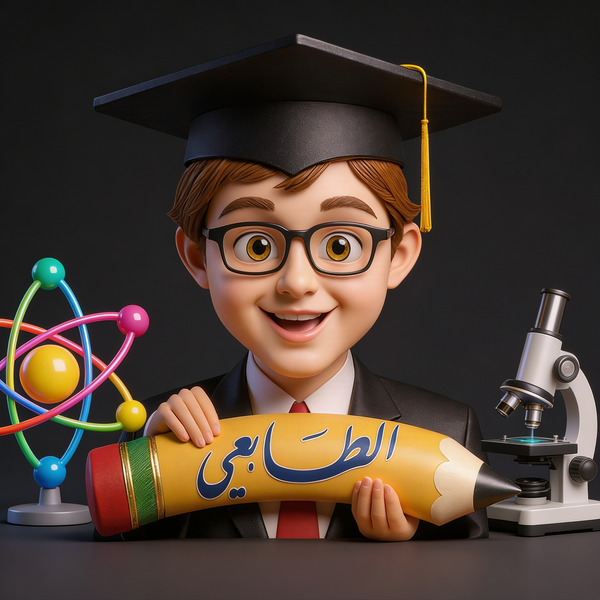
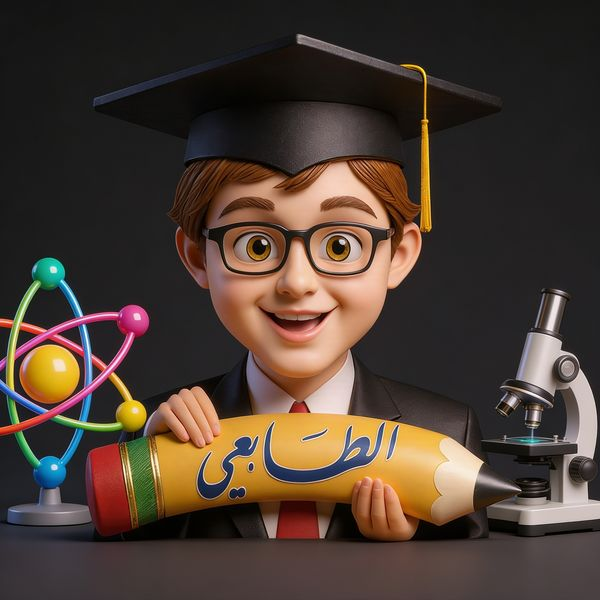
Add clear search button

diff --git a/web/index.html b/web/index.html
@@ -5,7 +5,7 @@
     <meta charset="UTF-8">
     <meta name="viewport" content="width=device-width, initial-scale=1.0">
     <meta name="google" content="notranslate">
-    <title>مكتبة القلم الذكي (الإصدار 11.7)</title>
+    <title>مكتبة القلم الذكي (الإصدار 11.8)</title>
     <link rel="stylesheet" href="style.css?v=50">
     <link rel="icon" href="icon.ico" type="image/x-icon">
     <script type="text/javascript" src="/eel.js"></script>
@@ -77,6 +77,10 @@
                         <line x1="21" y1="21" x2="16.65" y2="16.65"></line>
                     </svg>
                     <input type="text" placeholder="ابحث عن مادة..." id="search-input" onkeyup="handleSearch()">
+                    <svg id="clear-search-btn" onclick="clearSearch()" width="16" height="16" viewBox="0 0 24 24" fill="none" stroke="currentColor" stroke-width="2" stroke-linecap="round" stroke-linejoin="round" style="color: var(--text-subdued); cursor: pointer; display: none; opacity: 0.6; transition: opacity 0.2s;">
+                        <line x1="18" y1="6" x2="6" y2="18"></line>
+                        <line x1="6" y1="6" x2="18" y2="18"></line>
+                    </svg>
                 </div>
 
                 <div style="display: flex; align-items: center; gap: 8px;">

diff --git a/source_backups/app_original.js b/source_backups/app_original.js
@@ -96,6 +96,14 @@ document.addEventListener('click', function(event) {
 });
 
 // ===== Search =====
+function clearSearch() {
+    const searchInput = document.getElementById('search-input');
+    if (searchInput) {
+        searchInput.value = '';
+        handleSearch();
+    }
+}
+
 function normalizeArabic(text) {
     if(!text) return "";
     return text.replace(/[أإآا]/g, 'ا')
@@ -106,8 +114,14 @@ function normalizeArabic(text) {
 }
 
 function handleSearch() {
-    const rawQuery = document.getElementById('search-input').value.toLowerCase();
+    const searchInput = document.getElementById('search-input');
+    const clearBtn = document.getElementById('clear-search-btn');
+    const rawQuery = searchInput.value.toLowerCase();
     const query = normalizeArabic(rawQuery);
+
+    if (clearBtn) {
+        clearBtn.style.display = rawQuery ? 'block' : 'none';
+    }
 
     // إصلاح: إذا كان البحث فارغاً، عُد للعرض السابق بدلاً من شاشة فارغة
     if (query === '') {

diff --git a/web/app.js b/web/app.js
@@ -96,6 +96,14 @@ document.addEventListener('click', function(event) {
 });
 
 // ===== Search =====
+function clearSearch() {
+    const searchInput = document.getElementById('search-input');
+    if (searchInput) {
+        searchInput.value = '';
+        handleSearch();
+    }
+}
+
 function normalizeArabic(text) {
     if(!text) return "";
     return text.replace(/[أإآا]/g, 'ا')
@@ -106,8 +114,14 @@ function normalizeArabic(text) {
 }
 
 function handleSearch() {
-    const rawQuery = document.getElementById('search-input').value.toLowerCase();
+    const searchInput = document.getElementById('search-input');
+    const clearBtn = document.getElementById('clear-search-btn');
+    const rawQuery = searchInput.value.toLowerCase();
     const query = normalizeArabic(rawQuery);
+
+    if (clearBtn) {
+        clearBtn.style.display = rawQuery ? 'block' : 'none';
+    }
 
     // إصلاح: إذا كان البحث فارغاً، عُد للعرض السابق بدلاً من شاشة فارغة
     if (query === '') {

diff --git a/backend.py b/backend.py
@@ -25,7 +25,7 @@ def _d(s):
 
 urllib3.disable_warnings(urllib3.exceptions.InsecureRequestWarning)
 
-APP_VERSION = "11.7"
+APP_VERSION = "11.8"
 APP_NAME = "Tabaay_Student"
 BASE_URL_FILES = _d("PDU2Qypubm1DPTBvOlcteiw7UTUhJCpcKiBvL1Z2ITEmUi0x")
 HEADERS = {
